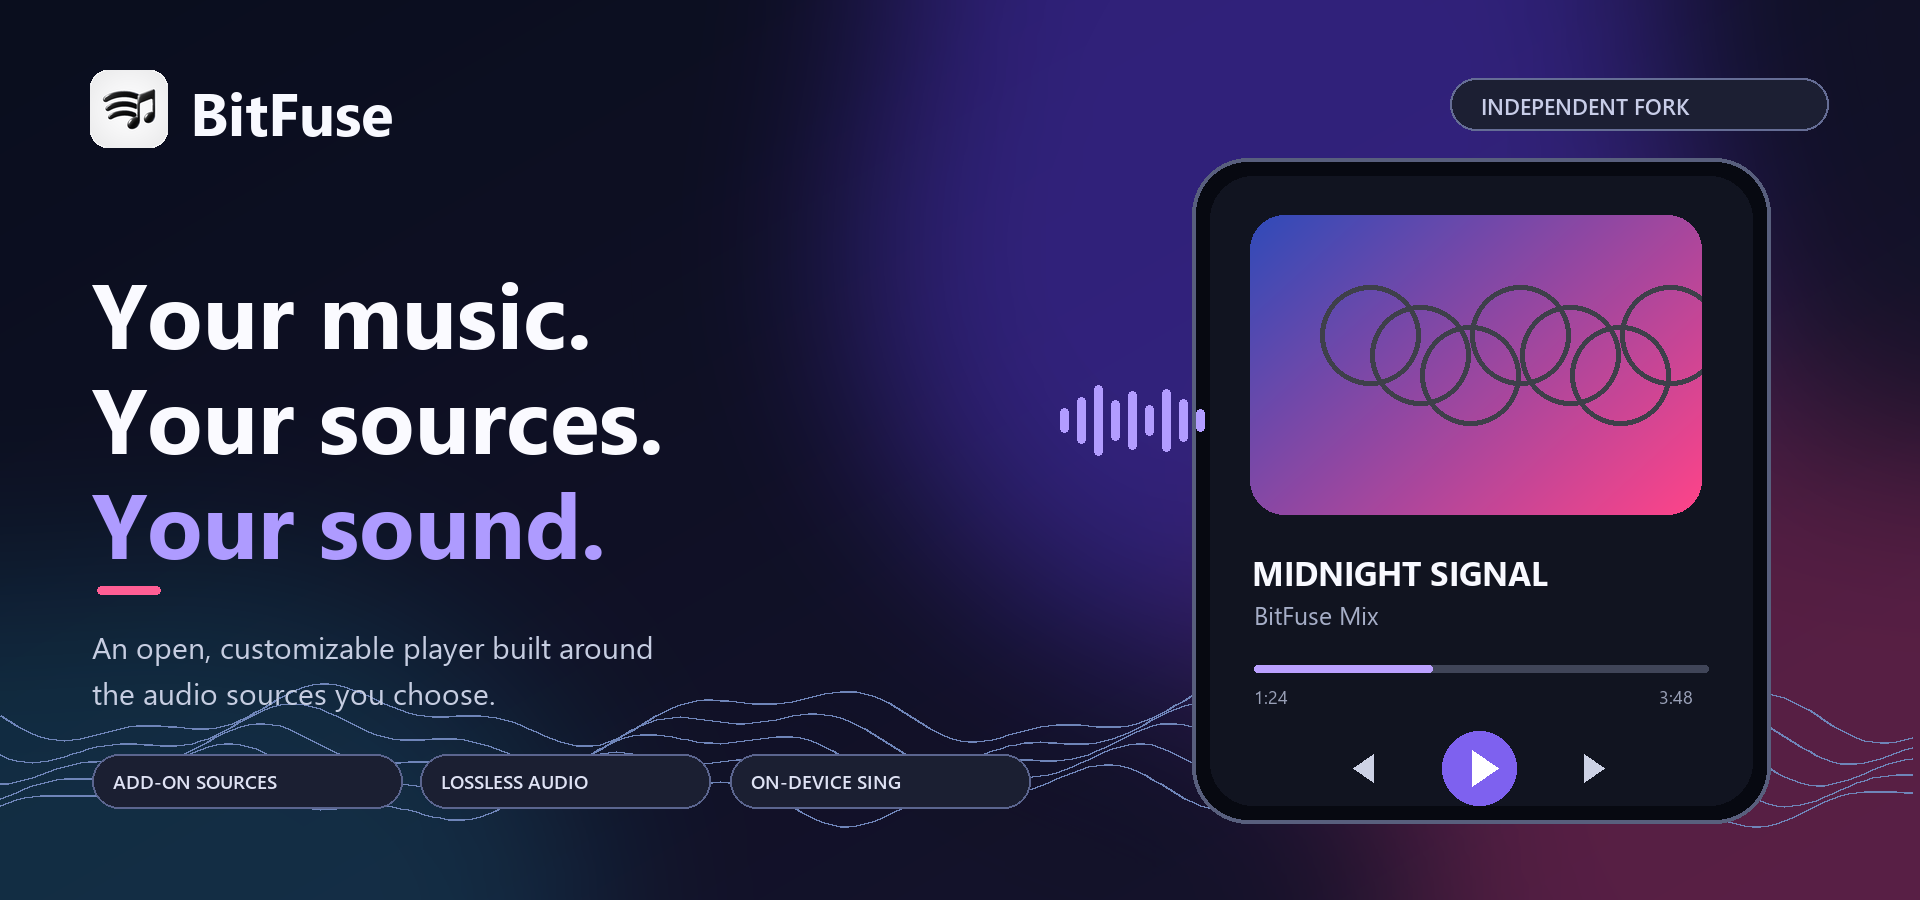
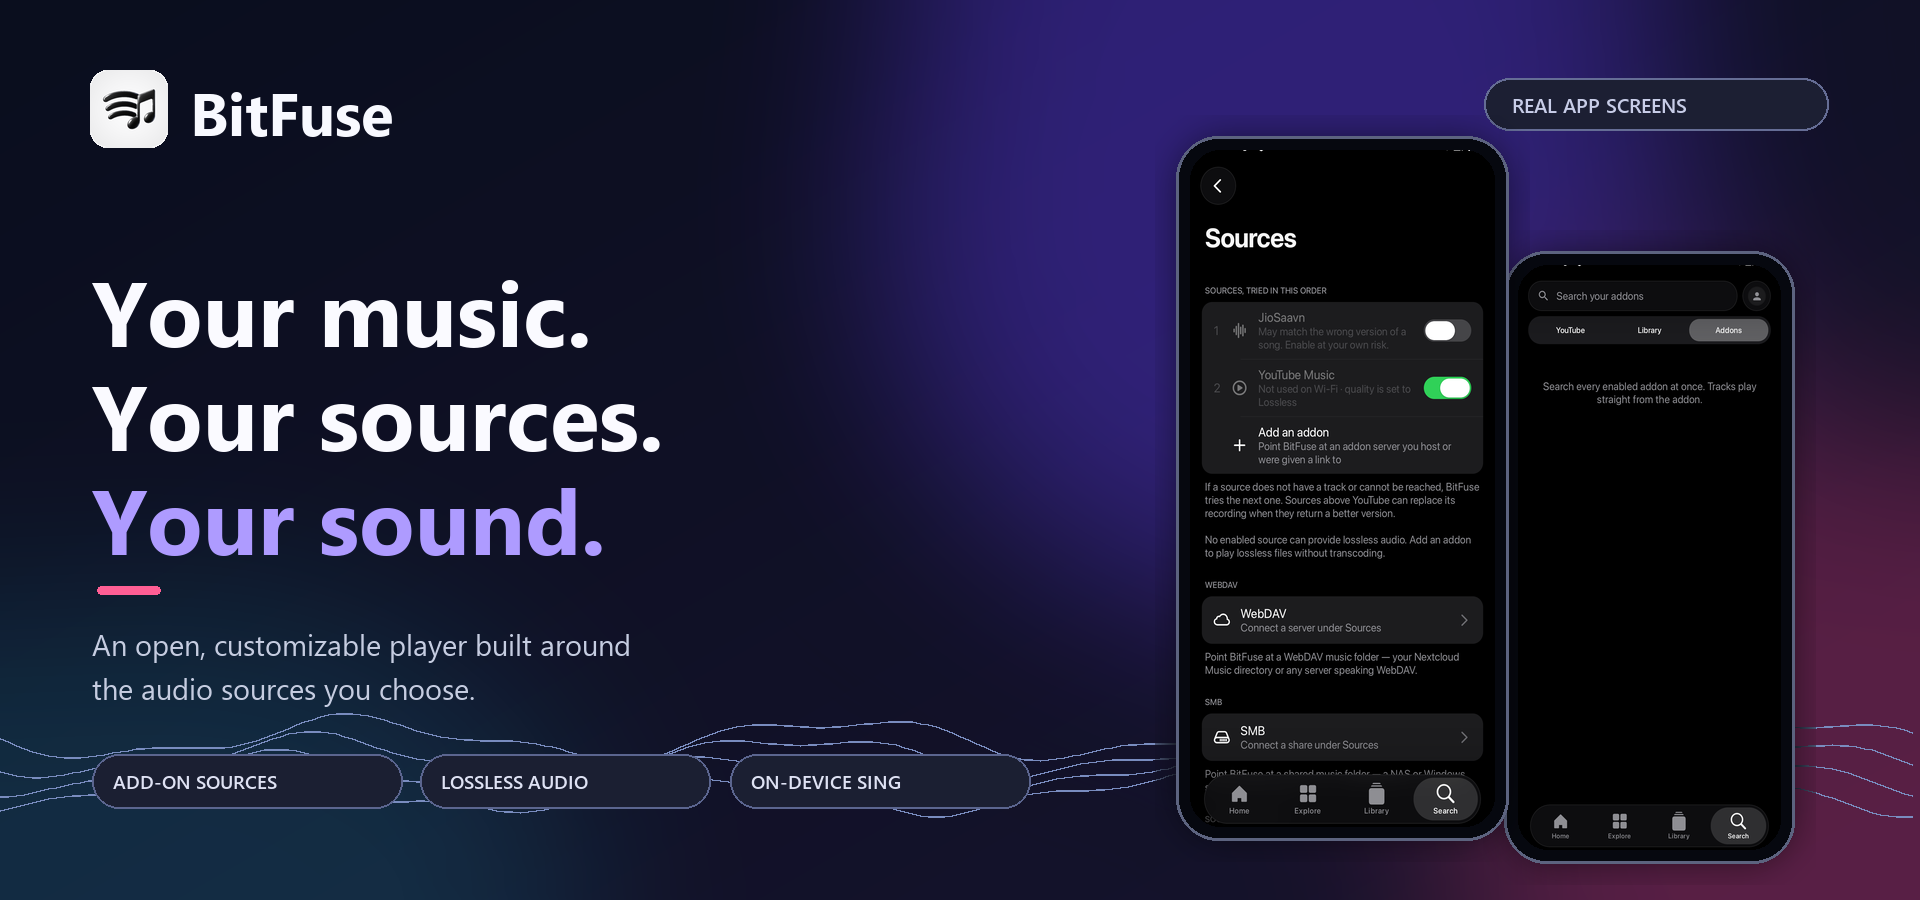
Show real BitFuse emulator screenshots in README

diff --git a/README.md b/README.md
@@ -12,7 +12,7 @@
 [![License](https://img.shields.io/github/license/yangmetastasi104/BitFuse?style=for-the-badge&labelColor=0d1117)](LICENSE)
 [![Downloads](https://img.shields.io/github/downloads/yangmetastasi104/BitFuse/total?style=for-the-badge&labelColor=0d1117)](https://github.com/yangmetastasi104/BitFuse/releases)
 
-[**Download**](#download) · [**Features**](#features) · [**Contributing**](#contributing) · [**Support**](#support) · [**Upstream**](#upstream)
+[**Download**](#download) · [**Features**](#features) · [**Screenshots**](#screenshots) · [**Contributing**](#contributing) · [**Support**](#support) · [**Upstream**](#upstream)
 
 </div>
 
@@ -58,6 +58,29 @@
 - **System equalizer** and **bit-perfect USB output** for compatible DACs.
 - **Stats for nerds** — inspect codec, bit depth, sample rate, and more.
 
+    </td>
+  </tr>
+</table>
+
+</div>
+
+---
+
+<div align="center">
+
+<h1><a id="screenshots"></a>Screenshots</h1>
+
+Captured from BitFuse running in the Android emulator. The demo install uses no signed-in accounts.
+
+<table>
+  <tr>
+    <td width="50%" valign="top" align="center">
+      <img src="docs/screenshots/sources.png" alt="BitFuse source management screen" width="340" />
+      <br/><strong>Choose and manage audio sources</strong>
+    </td>
+    <td width="50%" valign="top" align="center">
+      <img src="docs/screenshots/addons-search.png" alt="BitFuse add-on search screen" width="340" />
+      <br/><strong>Search enabled add-ons directly</strong>
     </td>
   </tr>
 </table>
